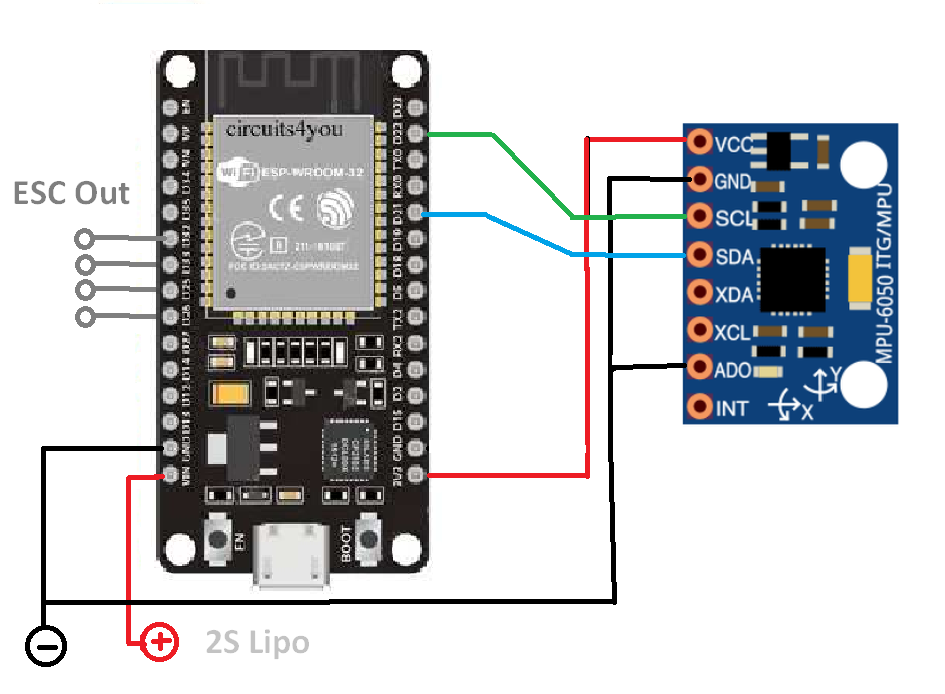
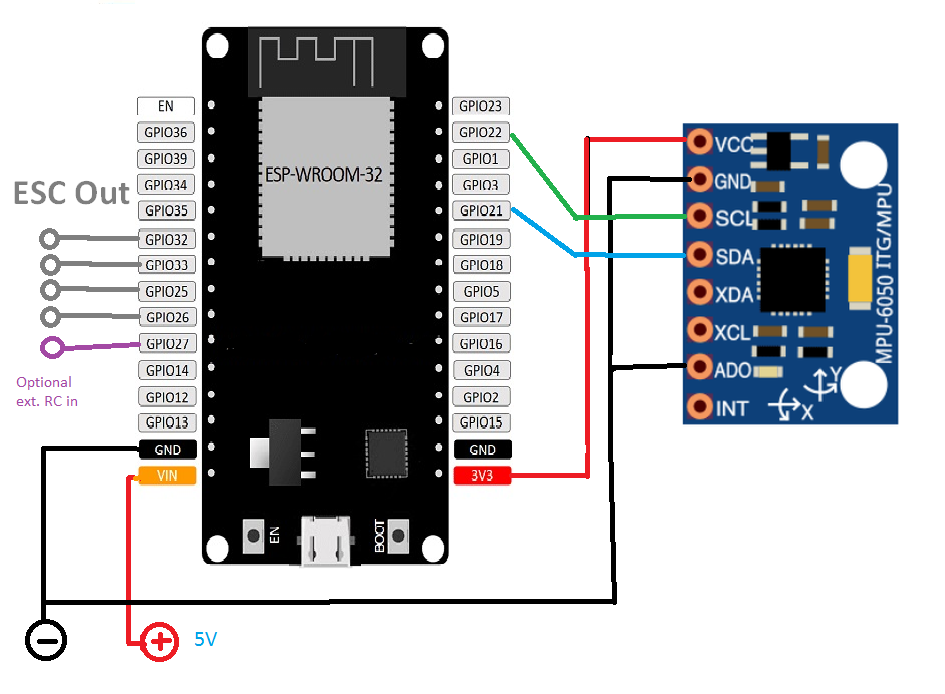
update

diff --git a/rc.h b/rc.h
@@ -1,7 +1,8 @@
 // Spec of RC data
 
 #define CHANNELS 8
-#define IN_PIN 2 
+#define RC_IN_PIN 27 
+#define RC_IN_GPIO GPIO_NUM_27
 
 typedef struct 
 {
@@ -28,5 +29,3 @@ RCdataTY RCdata;
 
 int16_t rcValue[CHANNELS];  // in us, center = 1500
 uint8_t seqno;
-
-

diff --git a/README.md b/README.md
@@ -32,13 +32,19 @@ To calibrate the ACC enter 'A' in the serial console.
 * VCC to Vin 
 * GND to GND.
  
-Be sure you do acc_calib and write default patams to eeprom before taking off. 
+Optional external RC input:
+
+* PPM SUM signal to pin 27
+* uncomment "#define externRC"
+
+Be sure you do acc_calib and write default params to eeprom before taking off. 
 Acc_calib is done ba placing the copter on a level surface and press A on the serial console.
 Default PID are written by press P on the serial console. Read them with R.
 
 Deaultf PID are for a small copter, a bigger copter might need substantially lower values. Adjust gyro PID first and only if it flyes like silk adjust level_pid.
 Experimental:
-You can use a phone to change PID. But its RC control or webserver, not both. Define #ALLOWWEBSERVER and use channel 6 to init webserver. Change values and reset to go back to fly mode.
+You can use a phone to change PID using external RC input. Define #ALLOWWEBSERVER. Connect to the IP given on serial console at startup. Use http, not https.
+
 
 ![wiring.png](Wiring.png "Wiring")
 
